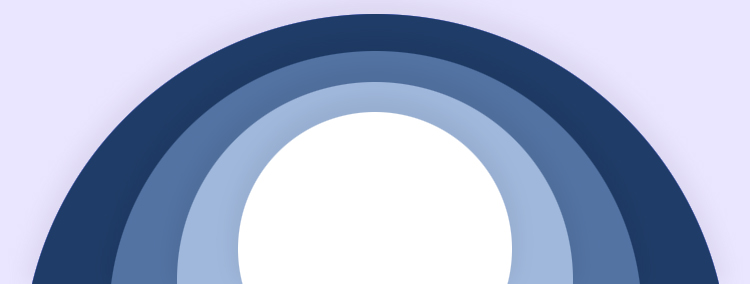
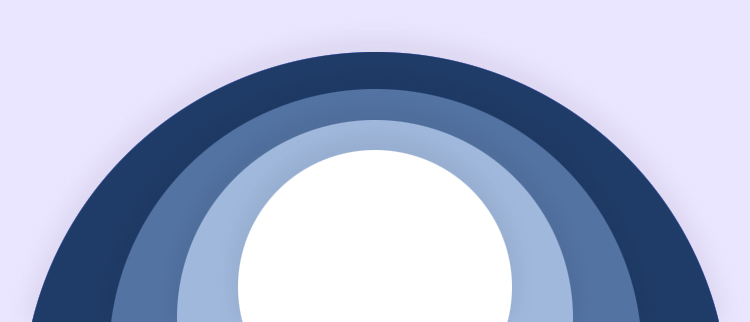
Third Commit
Background images added to sections
Contact section modified
Headings added to individual sections as filler for now
Navbar looking good, aside from collapsing navbar. Will probably need
to implement some javascript to modify the collapsed navbar code in
order to make it look better upon collapse
Will also create a nicer drop down button for the collapsed navbar

diff --git a/index.html b/index.html
@@ -24,20 +24,20 @@
             <nav class="navbar navbar-default navbar-static-top" id="navbar">
                 <div class="container-fluid">
                     <div class="navbar-header">
-                        <button type="button" class="navbar-toggle" data-toggle="collapse" data-target="#navbarCollapse">
+                        <button type="button" class="navbar-toggle" data-toggle="collapse" data-target="#navbar-collapse">
                             <span class="sr-only">Toggle Navigation</span>
                             <span class="icon-bar"></span>
                             <span class="icon-bar"></span>
                             <span class="icon-bar"></span>
                         </button>
                     </div>
-                    <div class="collapse navbar-collapse" id="navbarCollapse">
+                    <div class="collapse navbar-collapse" id="navbar-collapse">
                         <ul class="nav navbar-nav navbar-right">
-                            <li><a class="navLink" href="#about">About Me</a></li>
+                            <li><a class="nav-link" href="#about">About Me</a></li>
                             <li><a class="divider">/</a></li>
-                            <li><a class="navLink" href="#work">My Work</a></li>
+                            <li><a class="nav-link" href="#work">My Work</a></li>
                             <li><a class="divider">/</a></li>
-                            <li><a class="navLink" href="#contact">Contact Me</a></li>
+                            <li><a class="nav-link" href="#contact">Contact Me</a></li>
                         </ul>
                     </div>
                 </div>
@@ -47,17 +47,72 @@
         <div class="container-fluid" id="title">
             <div class="row">
                 <div class="col-md-12">
-                    <h1 id="myName">Tyler</h1>
+                    <h1 id="my-name">Tyler</h1>
+                </div>
+            </div>
+            <div class="row" id="bottom-image-container">
+                <div class="col-md-12">
+                    <img class="img-responsive bottom-image" src="includes/images/title_bg.jpg" alt="Background Image"/>
+                </div>
+            </div>
+        </div>
+        
+        <div class="container-fluid" id="about">
+            <div class="row image-top-container">
+                <div class="col-md-12">
+                    <img class="img-responsive top-image" src="includes/images/image-top.jpg" alt="Top Background Image"/>
+                </div>
+            </div>
+            <div class="row">
+                <div class="col-md-12">
+                    <h1 class="heading">About Me</h1>
+                </div>
+            </div>
+            <div class="row bottom-image-container">
+                <div class="col-md-12">
+                    <img class="img-responsive bottom-image" src="includes/images/image-bottom.jpg" alt="Bottom Background Image"/>
                 </div>
             </div>
         </div>
         
         <div class="container-fluid" id="work">
-            
+            <div class="row image-top-container">
+                <div class="col-md-12">
+                    <img class="img-responsive top-image" src="includes/images/image-top.jpg" alt="Top Background Image"/>
+                </div>
+            </div>
+            <div class="row">
+                <div class="col-md-12">
+                    <h1 class="heading">My Work</h1>
+                </div>
+            </div>
+            <div class="row bottom-image-container">
+                <div class="col-md-12">
+                    <img class="img-responsive bottom-image" src="includes/images/image-bottom.jpg" alt="Bottom Background Image"/>
+                </div>
+            </div>
         </div>
         
         <div class="container-fluid" id="contact">
-            
+            <div class="row">
+                <div class="col-md-12">
+                    <span id="contact-title">Contact Me</span>
+                </div>
+            </div>
+            <div class="row">
+                <div class="col-sm-6">
+                    <ul class="contact-list">
+                        <li>Some content</li>
+                        <li>Some content</li>
+                    </ul>
+                </div>
+                <div class="col-sm-6">
+                    <ul class="contact-list">
+                        <li>Some content</li>
+                        <li>Some content</li>
+                    </ul>
+                </div>
+            </div>
         </div>
     </body>
 </html>

diff --git a/includes/style.css b/includes/style.css
@@ -7,6 +7,13 @@
 
 /******End Fonts******/
 
+.heading{
+    font-size: 4vw;
+    color: #1f3c68;
+    margin-top: -15px;
+    
+}
+
 /******Navbar******/
 
 #navbar{
@@ -17,19 +24,19 @@
     margin-top: 20px;
     padding-right: 20px;
 }
-#navbar .navLink, #navbar .divider{
+#navbar .nav-link, #navbar .divider{
     color: #1f3c68;
     font-family: verdana;
     font-weight: bold;
     text-transform: capitalize;
     text-decoration: none;
 }
-#navbar .navLink:hover{
+#navbar .nav-link:hover{
     color: #2d5ba0;
     -webkit-transition: all 0.3s ease-in-out 0s;
     transition: all 0.3s ease-in-out 0s;
 }
-#navbar .navLink:before{
+#navbar .nav-link:before{
     content: "";
     position: absolute;
     width: 100%;
@@ -43,7 +50,7 @@
     -webkit-transition: all 0.3s ease-in-out 0s;
     transition: all 0.3s ease-in-out 0s;
 }
-#navbar .navLink:hover:before{
+#navbar .nav-link:hover:before{
     visibility: visible;
     -webkit-transform: scaleX(1);
     transform: scaleX(1);
@@ -55,25 +62,49 @@
 #title{
     background-color: #eae5ff;
     text-align: center;
-    min-height: 100vh;
     margin: auto;
     position: relative;
 }
-#myName{
+#my-name{
     font-family: brockscript;
     color: #1f3c68;
     margin-top: 150px;
-    font-size: 3.5em;
+    font-size: 8vw;
+}
+.top-image-container{
+    text-align: center;
+}
+.top-image{
+    vertical-align: middle;
+    bottom: 0px;
+    margin: auto; 
+}
+.bottom-image-container{
+    text-align: center;
+}
+.bottom-image{
+    vertical-align: middle;
+    bottom: 0px;
+    margin: auto; 
 }
 
 /******End Title******/
+
+/******About******/
+
+#about{
+    background-color: #fff;
+    text-align: center;
+    margin: auto;
+}
+
+/******End About******/
 
 /******Work******/
 
 #work{
     background-color: #fff;
     text-align: center;
-    min-height: 100vh;
     margin: auto;
 }
 
@@ -82,10 +113,17 @@
 /******Contact******/
 
 #contact{
-    background-color: #fff;
+    background-color: #eae5ff;
     text-align: center;
-    min-height: 100vh;
     margin: auto;
+    color: #1f3c68;
 }
-
+#contact-title{
+    color: #1f3c68;
+    font-size: 2vw;;
+}
+.contact-list{
+    list-style: none;
+    margin-top: 30px;
+}
 /******End Contact******/
